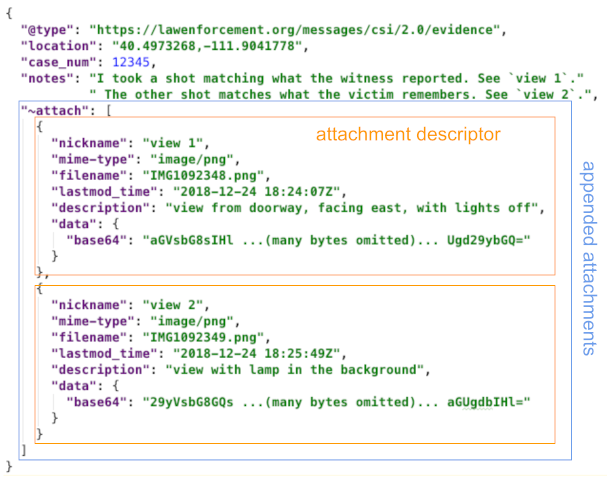
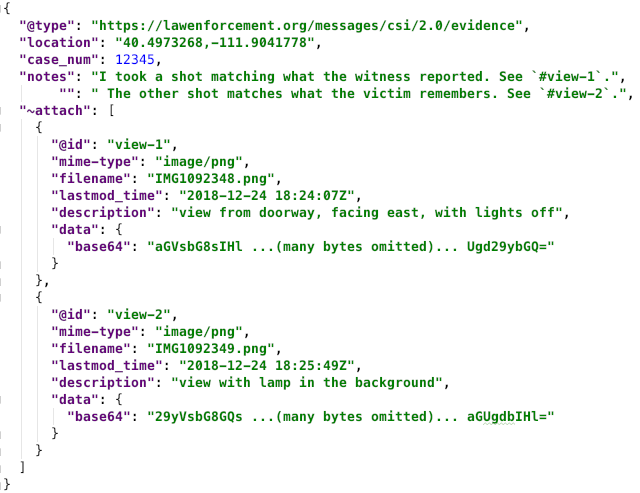
nickname --> @id

diff --git a/text/attachments/README.md b/text/attachments/README.md
@@ -109,7 +109,7 @@ value of the `did_doc` key in `connection_request` and
 `connection_response` messages in the Connection
 1.0 Protocol](https://github.com/hyperledger/indy-hipe/tree/master/text/0031-connection-protocol#example):
 
-![inlined DID Doc](inlined.png)
+[![inlined DID Doc](inlined.png)](connection-request.json)
 
 Notice that DID Docs have a meaning at rest, outside the message that
 conveys them. Notice as well that the versioning of DID Doc formats
@@ -132,7 +132,7 @@ in an email message. Given an imaginary protocol that photographers could
 use to share a their favorite photo with friends, the embedded data might
 manifest like this:
 
-![embedded photo](embedded.png)
+[![embedded photo](embedded.png)](photo-share.json)
 
 Embedding is a less direct mechanism than inlining, because the data is no
 longer readable by a human inspecting the message; it is
@@ -149,7 +149,7 @@ descriptor structures (the same structure used for embedding). For example, a
 message that conveys evidence found at a crime scene might include the
 following decorator:
 
-![appended attachments](appended.png)
+[![appended attachments](appended.png)](crime-scene.json)
 
 ### Choosing the right approach
 
@@ -185,10 +185,12 @@ without strong knowledge of their semantics might find this
 helpful, as in the example mentioned above, where scheduling a venue
 causes various human-usable payloads to be delivered.
 
-### Nicknames for attachments
+### IDs for attachments
 
-The `nickname` field is used to refer unambiguously to an appended
-(or less ideally, embedded) attachment, and works like an HTML anchor. For example,
+The `@id` field within an attachment descriptor is used to refer unambiguously
+to an appended (or less ideally, embedded) attachment, and works like an HTML
+anchor. It is resolved relative to the root `@id` of the message and only has
+to be unique within a message. For example,
 imagine a fictional message type that's used to apply for an art scholarship,
 that requires photos of art demonstrating techniques A, B, and C.
 We could have 3 different attachment descriptors--but what if the same
@@ -196,7 +198,7 @@ work of art demonstrates both technique A and technique B? We don't want
 to attach the same photo twice...
 
 What we can do is stipulate that the datatype of `A_pic`, `B_pic`, and `C_pic`
-is an __attachment reference__ (in the form of a nickname), and that the
+is an __attachment reference__, and that the
 references will point to appended attachments. A fragment of the result might
 look like this:
 
@@ -204,7 +206,7 @@ look like this:
 
 Another example of nickname use appeared in the [first example of
 appended attachments above](#appending), where the `notes` field
-refered to the nicknames of the various attachments.
+refered to the `@id`s of the various attachments.
 
 This indirection offers several benefits:
 
